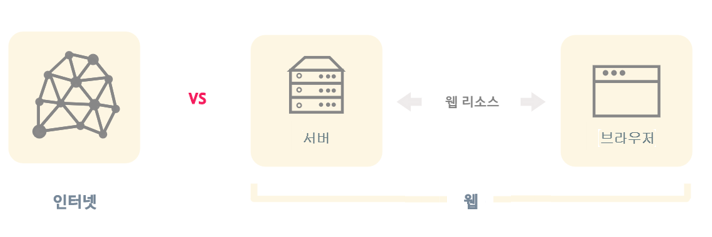
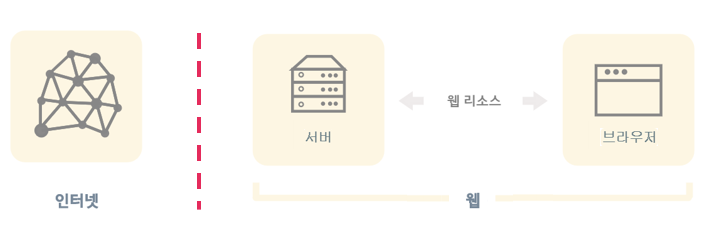
[필기] 일일커밋 3 내용 추가

diff --git a/content/Daily_Commit/2019_07_09.md b/content/Daily_Commit/2019_07_09.md
@@ -31,6 +31,9 @@ by 생활코딩 이고잉 님
 원리에 집착하지 말고 어떻게 굴러가는지에 집중하기
 가르쳐라! - 남을 가르칠 수 있어야 그 분야에 대해서 알고 있다고 할 수 있다. 배운 내용을 다른 사람에게 설명하는 일은 자신이 제대로 배웠는지 확인할 유일한 방법일 뿐 아니라 빠트린 부분을 찾아낼 좋은 방법이기도 하다. 뇌는 누군가를 가르치려고 할 때 정보를 새롭게 조작한다. 마무리를 짓는 최종적인 단계이다
 
-####
+#### 일러스트 만들기
+파워포인트를 사용하자ㅋㅋ
+진짜 프레임워크, 라이브러리, 툴 등을 만드는 이유가 공감되는 순간이었다. 일러스트레이터 프로그램은 너무 비싸고 다른 프로그램은 너무 불편하고...차라리 파워포인트로 도형을 단순하게 조합하는 것이 편하네...이렇게 할 수 있는 간단한 툴을 만들까? 라고 생각을 하면서 모든 것은 그저 각자가 필요해져서 만들게 된 결과물이었구나라는 것이 정말 실감되었다. 리액트나 다른 어떤 프레임워크나 라이브러리, 툴들은 모두 그 순간에 어떤 사람이 지금 내가 이런 것처럼 불편해져서 또는 필요해져서 만든 것들이구나 싶었다. 다른 사람이 만든 툴이 나에게 맞는다면 그대로 써도 되지만, 그렇지 않으면 직접 만드는 것도 방법이겠구나.
 
 ### 오늘의 풀리퀘스트
+- 일러에 너무 많은 시간을 쏟았다. 근데 그 과정에서 무언가를 만드는 이유에 대해 깊은 깨달음을 얻을 수 있었다.

diff --git a/content/Essays/project_ideas.md b/content/Essays/project_ideas.md
@@ -4,9 +4,20 @@ title: "프로젝트 아이디어"
 description: 
 tags: ['에세이']
 ---
-> a collection of topics that I am interested in and would like to research more about
+> 뭔가 만들어보고 싶은 애플리케이션 아이디어 메모장
+- 프로젝트의 시작은 항상 해결하고 싶은 문제에서 시작된다.
+- 해결하고 싶은 문제가 없는데 굳이 무언가를 만들 필요는 없다. :sunglasses:
+- 궁금한 것만 공부하고, 궁금하지 않은 것은 잠시 미루자
+- 궁금하거나 필요한 것만 만들고, 그렇지 않은 것은 만들지 말자
 
-#### flash card app
+#### 말투 이슈 모음
+내가 깃헙에 이슈를 등록하여 (문제, 해결방안)을 도출하는 것처럼
+말투나 성격에서 바꾸고 싶은 것도 기록해두고 해결하려고 하면 어떨까?
+그런 메모장같은 앱이 있으면 좋겠다 -> 모바일 앱?
+ex. 친구랑 약속 잡는데, 친구가 '오는 거 안 힘들겠냐'고 물을때 어떻게 하면 이쁘게 대답할 수 있을까
+
+#### 크앙크앙
+
 
 #### Mylife Roadmap
 imposture syndrome을 방지하는 roadmap

diff --git a/content/front-end/1.md b/content/front-end/1.md
@@ -7,9 +7,9 @@ tags: ['웹개발', '프론트엔드']
 
 ### 인터넷과 웹
 인터넷과 웹은 자주 혼용되어 사용되지만, 사실 둘은 엄연히 다른 개념이다.
-<img src="./_images/1_overview2.PNG" width="800px">
-- 인터넷은
-- 웹은 
+<img src="./_images/1_overview.PNG" width="100%">
+- 인터넷은 구조
+- 웹은 그 구조를 사용하는 서비스
 
 ### 인터넷
 인터넷은 `inter + net` 라는 사전적 정의 그대로 수없이 많은 네크워크들이 서로 연결된 커다란 네트워크이다. 즉, 네트워크들의 네트워크
